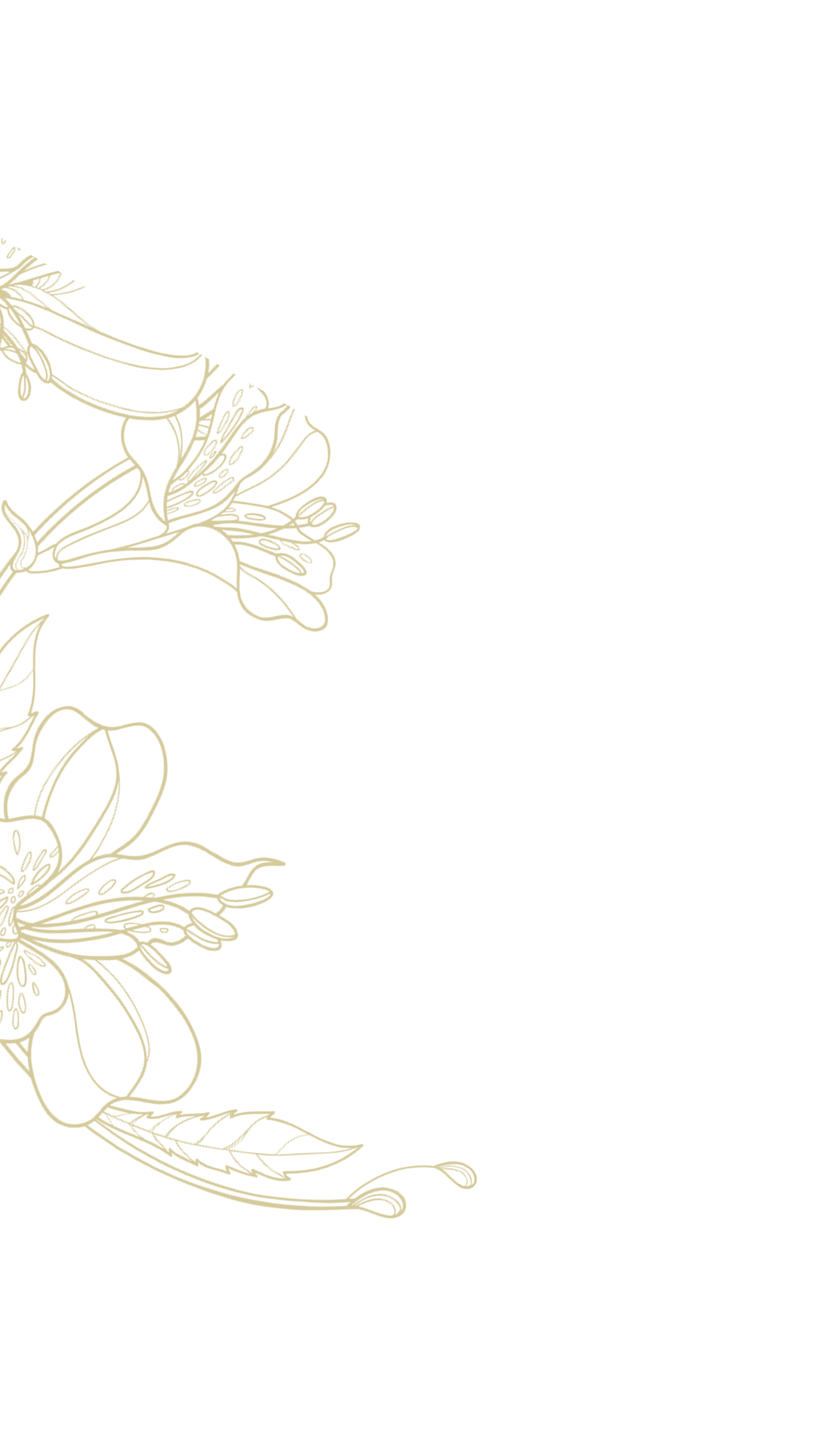
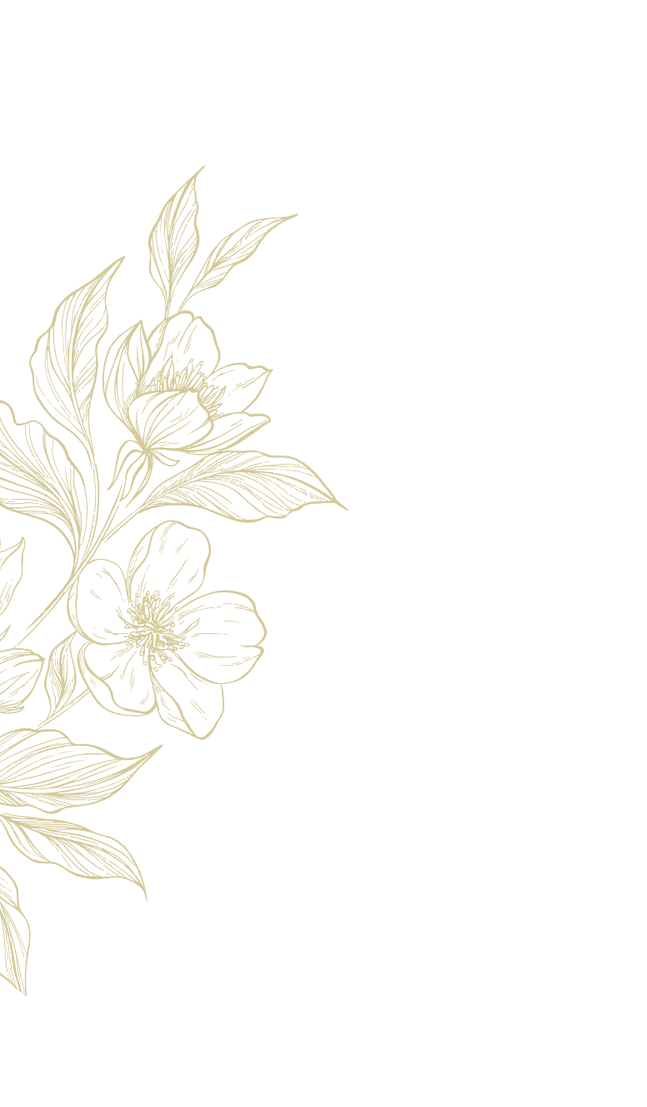
refactor: perubahan kevin dan michelle

Changed region(s): [[0.0, 0.1545, 0.5258, 0.896], [0.5258, 0.8033, 0.5876, 0.8342], [0.4021, 0.5561, 0.433, 0.587]]

diff --git a/app/components/kevin-dan-michelle/JourneyLove.tsx b/app/components/kevin-dan-michelle/JourneyLove.tsx
@@ -13,43 +13,49 @@ export default function JourneyLove({ isOpen, isMobile }: Props) {
   return (
     <>
       <div id="journey-love" className="journey-love relative z-10 w-full min-h-screen">
-        <div className="relative overflow-hidden z-10 text-center h-full font-cormorant text-[#DFD28F] pt-[138px] pb-[167px]">
-          <h2 className="font-milyuna text-2xl leading-[25px] animate" data-animate="zoom-in">A Journey in Love</h2>
-          <Image src="/images/kevin-dan-michelle/img-garis-judul-mobile.png" alt="Picture of garis judul" width={109} height={10} className="mt-1 mx-auto animate" data-animate="zoom-in" />
-          
-          <div className="w-[259px] mt-[40px] mx-auto">
-            <p className="text-[14px] leading-[20px] animate" data-animate="fade-up">
+        <div className="relative overflow-hidden z-10 h-full font-cormorant text-[#DFD28F] pt-[148px] pb-[187px]">
+          <div className="w-[259px] md:w-[638px] mx-auto">
+            <h2 className="font-milyuna text-2xl md:text-[48px] leading-[25px] md:leading-[48px] animate" data-animate="fade-up">Kevin & <br /> Michelle</h2>
+            <p className="text-[14px] md:text-[22px] leading-[20px] md:leading-[30px] text-justify mt-[37px] md:mt-[61px] animate" data-animate="fade-up">
               It all began in 2016, on the very first day of medical school. We were classmates and happened to be placed in the same practical group. Like many first meetings, it started with a simple introduction—but instead of talking about the lab session, we found ourselves laughing about the challenges that medical school would bring.
             </p>
-            <p className="text-[14px] leading-[20px] animate" data-animate="fade-up">
+            <p className="text-[14px] md:text-[22px] leading-[20px] md:leading-[30px] text-justify mt-3 md:mt-4 animate" data-animate="fade-up">
               As days turned into months, we became close friends. We studied together, spent countless hours in practical sessions, and shared unforgettable moments with the same group of friends. Somewhere along the way, friendship quietly grew into something much more. On November 30, 2017, Kevin asked Michelle to be his girlfriend, and we officially began our journey together.
             </p>
-            <p className="text-[14px] leading-[20px] animate" data-animate="fade-up">
+            <p className="text-[14px] md:text-[22px] leading-[20px] md:leading-[30px] text-justify mt-3 md:mt-4 animate" data-animate="fade-up">
               From that day on, we faced every milestone side by side. We survived endless lectures, late-night study sessions, clinical rotations, writing our theses, completing clerkships, and preparing for the national medical licensing examination. Through every challenge, we became each other's greatest source of strength.
             </p>
-            <p className="text-[14px] leading-[20px] animate" data-animate="fade-up">
+            <p className="text-[14px] md:text-[22px] leading-[20px] md:leading-[30px] text-justify mt-3 md:mt-4 animate" data-animate="fade-up">
               In 2023, after years of hard work, we achieved our dream of graduating together as doctors. To celebrate this milestone, Kevin took Michelle to Japan. On June 29, 2023, with the breathtaking view of Lake Kawaguchiko and Mount Fujistanding majestically in the background, Kevin asked the most important question of their lives—and Michelle said yes.
             </p>
-            <p className="text-[14px] leading-[20px] animate" data-animate="fade-up">
+            <p className="text-[14px] md:text-[22px] leading-[20px] md:leading-[30px] text-justify mt-3 md:mt-4 animate" data-animate="fade-up">
               A few months later, on December 3, 2023, our families came together for our Tingjing Ceremony, marking the beginning of a new chapter with the blessing of those we love most. In 2024, life took us to different cities as we completed our one-year medical internship. Although distance separated us, it only strengthened our commitment and reminded us that home was always wherever the other person was.
             </p>
-            <p className="text-[14px] leading-[20px] animate" data-animate="fade-up">
+            <p className="text-[14px] md:text-[22px] leading-[20px] md:leading-[30px] text-justify mt-3 md:mt-4 animate" data-animate="fade-up">
               When our internship ended in 2025 and we both returned to Bandung, we knew it was finally time. After growing together through every season of life—from students to doctors, from best friends to soulmates—we made the decision to begin our greatest adventure yet: A lifetime together.
             </p>
-            <p className="text-[14px] leading-[20px] animate" data-animate="fade-up">
+            <p className="text-[14px] md:text-[22px] leading-[20px] md:leading-[30px] text-justify mt-3 md:mt-4 animate" data-animate="fade-up">
               What started with a simple introduction in a medical school classroom has become a love story built on friendship, perseverance, and unwavering support. And now, surrounded by the people we love, we cannot wait to write the next chapter—together, forever.
             </p>
           </div>
 
           {/* Absoulte Image */}
-          <Image src="/images/kevin-dan-michelle/img-tanaman-kiri-atas-journey-mobile.png" alt="Picture of tanaman kiri atas" width={425} height={252} className="absolute -top-[270px] left-0 w-[255px]" />
-          <Image src="/images/kevin-dan-michelle/img-tanaman-kanan-atas-journey-mobile.png" alt="Picture of tanaman kanan atas" width={425} height={251} className="absolute -top-[270px] right-0 w-[255px]" />
-          <Image src="/images/kevin-dan-michelle/img-bunga-atas-journey-love-mobile.png" alt="Picture of bunga atas" width={98} height={98} className="absolute -top-[40px] left-1/2 -translate-x-1/2" />
-          <Image src="/images/kevin-dan-michelle/img-bunga-atas-kiri-journey-love-mobile.png" alt="Picture of bunga kiri atas" width={128} height={128} className="absolute -top-[45px] left-[57px]" />
-          <Image src="/images/kevin-dan-michelle/img-bunga-atas-kanan-journey-love-mobile.png" alt="Picture of bunga kanan atas" width={128} height={128} className="absolute -top-[45px] right-[57px]" />
-          <Image src="/images/kevin-dan-michelle/img-bintang-atas-journey-mobile.png" alt="Picture of bintang atas" width={680} height={680} className="absolute -top-[500px] left-0" />
-          <Image src="/images/kevin-dan-michelle/img-bintang-kanan-journey-mobile.png" alt="Picture of bintang atas" width={514} height={514} className="absolute top-[300px] right-0" />
+          <Image src="/images/kevin-dan-michelle/img-bintang-kanan-journey-mobile.png" alt="Picture of bintang atas" width={514} height={514} className="md:hidden absolute top-[650px] right-0" />
+          <Image src="/images/kevin-dan-michelle/img-bintang-kiri-bawah-journey-mobile.png" alt="Picture of bintang bawah kiri" width={514} height={514} className="absolute -bottom-[100px] left-0" />
+          <Image src="/images/kevin-dan-michelle/img-tanaman-kiri-bawah-journey-mobile.png" alt="Picture of bintang atas" width={232} height={232} className="md:hidden absolute w-[200px] -bottom-[130px] left-0" />
+          <Image src="/images/kevin-dan-michelle/img-tanaman-kanan-bawah-journey-mobile.png" alt="Picture of bintang atas" width={232} height={232} className="md:hidden absolute w-[200px] -bottom-[130px] right-0" />
+          <Image src="/images/kevin-dan-michelle/img-tanaman-kiri-bawah-journey-2-mobile.png" alt="Picture of bintang atas" width={252} height={252} className="md:hidden absolute -bottom-[230px] left-[5px]" />
+          <Image src="/images/kevin-dan-michelle/img-tanaman-kanan-bawah-journey-2-mobile.png" alt="Picture of bintang atas" width={252} height={252} className="md:hidden absolute -bottom-[230px] right-[5px]" />
+
+          <Image src="/images/kevin-dan-michelle/img-tanaman-kiri-bawah-journey.png" alt="Picture of bintang atas" width={844} height={690} className="hidden md:block w-[400px] absolute -bottom-[180px] left-0" />
+          <Image src="/images/kevin-dan-michelle/img-tanaman-kanan-bawah-journey.png" alt="Picture of bintang atas" width={571} height={513} className="hidden md:block w-[400px] absolute  -bottom-[130px] right-0" />
+          <Image src="/images/kevin-dan-michelle/img-tanaman-kiri-bawah-journey-2.png" alt="Picture of bintang atas" width={622} height={360} className="hidden md:block absolute -bottom-[280px] -left-[30px]" />
         </div>
+
+        {/* Absoulte Image */}
+        <Image src="/images/kevin-dan-michelle/img-tanaman-kiri-atas-journey-mobile.png" alt="Picture of tanaman atas" width={237} height={237} className="md:hidden absolute -top-[100px] left-0 w-[200px]" />
+        <Image src="/images/kevin-dan-michelle/img-tanaman-kanan-atas-journey-mobile.png" alt="Picture of tanaman atas" width={237} height={237} className="md:hidden absolute -top-[100px] right-0 w-[200px]" />
+        <Image src="/images/kevin-dan-michelle/img-tanaman-kanan-atas-journey.png" alt="Picture of tanaman atas" width={774} height={771} className="hidden md:block absolute -top-[400px] right-0" />
       </div>
     </>
   )

diff --git a/app/components/kevin-dan-michelle/Profile.tsx b/app/components/kevin-dan-michelle/Profile.tsx
@@ -13,48 +13,49 @@ export default function Profile({ isOpen, isMobile }: Props) {
   return (
     <>
       <div id="profile" className="profile relative z-10 w-full min-h-screen">
-        <div className="relative overflow-hidden z-10 text-center h-full font-cormorant text-[#DFD28F] pt-[179px] pb-[167px]">
-          <p className="text-[14px] leading-[20px] animate" data-animate="fade-up">
-            We request the honour of your presence <br /> at the wedding of <br /> our beloved son and daughter
+        <div className="relative overflow-hidden z-10 text-center h-full font-cormorant text-[#DFD28F] pt-[159px]">
+          <p className="text-[14px] md:text-[22px] leading-[20px] md:leading-[30px] animate" data-animate="fade-up">
+            We request the honour of your presence <br /> at the wedding of <br className="md:hidden" /> our beloved son and daughter
           </p>
 
-          <Image src="/images/kevin-dan-michelle/img-pengantin-pria-mobile.png" alt="Picture of Pengantin pria" width={200} height={262} className="w-[200px] mt-[60px] mx-auto animate" data-animate="zoom-in" />
-          <h2 className="font-milyuna text-[26px] leading-[30px] mt-[36px] animate" data-animate="zoom-in">dr. Kevin Axel Laurent <br /> Susanto</h2>
-          <p className="text-[14px] leading-[20px] font-light mt-5 animate" data-animate="fade-up">
+          <Image src="/images/kevin-dan-michelle/img-pengantin-pria-mobile.png" alt="Picture of Pengantin pria" width={200} height={262} className="md:hidden w-[200px] mt-[60px] mx-auto animate" data-animate="zoom-in" />
+          <Image src="/images/kevin-dan-michelle/img-pengantin-pria.png" alt="Picture of Pengantin pria" width={261} height={338} className="hidden md:block mt-[71px] mx-auto animate" data-animate="zoom-in" />
+          <h2 className="font-milyuna text-[26px] md:text-[64px] leading-[30px] md:leading-[63px] mt-[36px] md:mt-[50px] animate" data-animate="zoom-in">dr. Kevin Axel Laurent <br /> Susanto</h2>
+          <p className="text-[14px] md:text-[22px] leading-[20px] font-light mt-5 md:mt-[25px] animate" data-animate="fade-up">
             The Son of
           </p>
-          <p className="text-[14px] leading-[24px] font-light mt-3 animate" data-animate="fade-up">
-            Mr. Agus Susanto, SE and <br /> Mrs. Cin Mei
+          <p className="text-[14px] md:text-[22px] leading-[24px] md:leading-[30px] font-light mt-3 animate" data-animate="fade-up">
+            Mr. Agus Susanto, SE and <br className="md:hidden" /> Mrs. Cin Mei
           </p>
 
-          <Image src="/images/kevin-dan-michelle/img-pengantin-wanita-mobile.png" alt="Picture of Pengantin wanita" width={200} height={262} className="w-[200px] mt-[55px] mx-auto animate" data-animate="zoom-in" />
-          <h2 className="font-milyuna text-[26px] leading-[30px] mt-[36px] animate" data-animate="zoom-in">dr. Michelle Cannissa <br /> Hendrawan</h2>
-          <p className="text-[14px] leading-[20px] font-light mt-5 animate" data-animate="fade-up">
+          <Image src="/images/kevin-dan-michelle/img-pengantin-wanita-mobile.png" alt="Picture of Pengantin wanita" width={200} height={262} className="md:hidden w-[200px] mt-[55px] mx-auto animate" data-animate="zoom-in" />
+          <Image src="/images/kevin-dan-michelle/img-pengantin-wanita.png" alt="Picture of Pengantin wanita" width={261} height={338} className="hidden md:block mt-[98px] mx-auto animate" data-animate="zoom-in" />
+          <h2 className="font-milyuna text-[26px] md:text-[64px] leading-[30px] md:leading-[63px] mt-[36px] md:mt-[50px] animate" data-animate="zoom-in">dr. Michelle Cannissa <br /> Hendrawan</h2>
+          <p className="text-[14px] md:text-[22px] leading-[20px] font-light mt-5 md:mt-[25px] animate" data-animate="fade-up">
             The Daughter of
           </p>
-          <p className="text-[14px] leading-[24px] font-light mt-3 animate" data-animate="fade-up">
-            Mr. Iwan Hendrawan and <br /> Mrs. Rosmiati
+          <p className="text-[14px] md:text-[22px] leading-[24px] md:leading-[30px] font-light mt-3 animate" data-animate="fade-up">
+            Mr. Iwan Hendrawan and <br className="md:hidden" /> Mrs. Rosmiati
           </p>
 
-          <p className="text-[14px] leading-[20px] mt-[52px] animate" data-animate="fade-up">
+          <p className="text-[14px] md:text-[22px] leading-[20px] md:leading-[30px] mt-[52px] md:mt-[65px] animate" data-animate="fade-up">
             We would be honoured <br /> by your presence and blessing.
           </p>
-
-          {/* Absoulte Image */}
-          <Image src="/images/kevin-dan-michelle/img-tanaman-kiri-bawah-profile-mobile.png" alt="Picture of tanaman kiri bawah" width={243} height={243} className="absolute -bottom-[100px] left-0 w-[217px]" />
-          <Image src="/images/kevin-dan-michelle/img-tanaman-kanan-bawah-profile-mobile.png" alt="Picture of tanaman kanan bawah" width={243} height={243} className="absolute -bottom-[80px] right-0 w-[157px]" />
-          <Image src="/images/kevin-dan-michelle/img-tanaman-kiri-bawah-profile-2-mobile.png" alt="Picture of tanaman kiri bawah" width={88} height={88} className="absolute -bottom-[40px] left-[50px]" />
-          <Image src="/images/kevin-dan-michelle/img-tanaman-kanan-bawah-profile-2-mobile.png" alt="Picture of tanaman kanan bawah" width={121} height={121} className="absolute -bottom-[55px] right-[45px]" />
-          <Image src="/images/kevin-dan-michelle/img-bintang-bawah-profile-mobile.png" alt="Picture of bintang bawah" width={409} height={409} className="absolute -bottom-[250px] left-0" />
         </div>
 
         {/* Absolute Image */}
-        <Image src="/images/kevin-dan-michelle/img-bintang-atas-profile-mobile.png" alt="Picture of bintang atas" width={359} height={359} className="absolute -top-[200px] left-0" />
-        <Image src="/images/kevin-dan-michelle/img-tanaman-kiri-atas-profile-mobile.png" alt="Picture of tanaman atas kiri" width={318} height={390} className="absolute -top-[170px] left-0 w-[179px]" />
-        <Image src="/images/kevin-dan-michelle/img-tanaman-kanan-atas-profile-mobile.png" alt="Picture of tanaman atas kanan" width={318} height={390} className="absolute -top-[170px] right-0 w-[179px]" />
+        <Image src="/images/kevin-dan-michelle/img-bintang-atas-profile-mobile.png" alt="Picture of bintang atas" width={359} height={359} className="md:hidden absolute -top-[200px] left-0 pointer-events-none" />
+        <Image src="/images/kevin-dan-michelle/img-tanaman-kiri-atas-profile-mobile.png" alt="Picture of tanaman atas kiri" width={318} height={390} className="md:hidden absolute -top-[170px] left-0 w-[179px] pointer-events-none" />
+        <Image src="/images/kevin-dan-michelle/img-tanaman-kanan-atas-profile-mobile.png" alt="Picture of tanaman atas kanan" width={318} height={390} className="md:hidden absolute -top-[170px] right-0 w-[179px] pointer-events-none" />
+        <Image src="/images/kevin-dan-michelle/img-tanaman-kiri-atas-profile.png" alt="Picture of tanaman atas kiri" width={932} height={1142} className="hidden md:block absolute -top-[800px] left-0 pointer-events-none w-[772px]" />
+        <Image src="/images/kevin-dan-michelle/img-tanaman-kanan-atas-profile.png" alt="Picture of tanaman atas kanan" width={932} height={1142} className="hidden md:block absolute -top-[800px] right-0 pointer-events-none w-[772px]" />
+
         <Image src="/images/kevin-dan-michelle/img-bintang-atas-kanan-profile-mobile.png" alt="Picture of bintang atas kanan" width={359} height={359} className="absolute -top-[100px] right-0 w-[229px]" />
-        <Image src="/images/kevin-dan-michelle/img-bintang-kiri-samping-pengantin-pria-mobile.png" alt="Picture of bintang samping pengantin pria" width={481} height={481} className="absolute top-[100px] left-0 w-[281px]" />
-        <Image src="/images/kevin-dan-michelle/img-bintang-kanan-samping-pengantin-wanita-mobile.png" alt="Picture of bintang samping pengantin wanita" width={481} height={481} className="absolute top-[550px] right-0 w-[261px]" />
+        <Image src="/images/kevin-dan-michelle/img-bintang-kiri-samping-pengantin-pria-mobile.png" alt="Picture of bintang samping pengantin pria" width={481} height={481} className="md:hidden absolute top-[100px] left-0 w-[281px] " />
+        <Image src="/images/kevin-dan-michelle/img-bintang-kanan-samping-pengantin-wanita-mobile.png" alt="Picture of bintang samping pengantin wanita" width={481} height={481} className="md:hidden absolute top-[550px] right-0 w-[261px]" />
+        <Image src="/images/kevin-dan-michelle/img-bintang-kiri-bawah-profile-mobile.png" alt="Picture of bintang bawah profile" width={583} height={680} className="md:hidden absolute -bottom-[350px] left-0" />
+
+        <Image src="/images/kevin-dan-michelle/img-bintang-atas-kanan-profile.png" alt="Picture of bintang atas kanan" width={1343} height={1343} className="hidden md:block w-[900px] absolute -top-[75px] right-0" />
       </div>
     </>
   )

diff --git a/app/components/kevin-dan-michelle/Hero.tsx b/app/components/kevin-dan-michelle/Hero.tsx
@@ -20,35 +20,43 @@ export default function Hero({ isOpen, setIsOpen, params, isMobile }: HeroProps)
             <div className="absolute inset-0 z-[1] bg-[#00000040] backdrop-blur-[11.1px]" />
             <div className="relative z-20 flex items-center justify-center h-full">
               <div className="w-[290px] md:w-[416px] min-h-min rounded-[15px] md:rounded-[20px] shadow-[0px_8px_11.6px_0px_#0000008A] zoom-in">
-                <div className="w-full h-[180px] md:h-[220px] rounded-tl-[15px] md:rounded-tl-[20px] rounded-tr-[15px] md:rounded-tr-[20px] bg-center bg-cover bg-no-repeat bg-[url('/images/kevin-dan-michelle/img-hero-mobile.png')]"></div>
-                <div className="relative w-full pt-[25px] md:pt-[26px] pb-[40px] rounded-bl-[15px] md:rounded-bl-[20px] rounded-br-[15px] md:rounded-br-[20px] font-century text-[#3C475E] text-center bg-[#F6F6F4] md:bg-white">
-                  <h6 className="text-xs md:text-[14px] font-normal leading-none tracking-[15%] md:tracking-normal uppercase">the wedding of</h6>
-                  <h2 className="font-constantia text-[28px] md:text-[36px] leading-none font-normal mt-2">Steven & Bella</h2>
-                  <h6 className="text-[10px] md:text-[14px] font-medium leading-[25px] md:leading-[31px] mt-3">Dear,</h6>
-                  <h6 className="text-xs md:text-lg font-medium leading-[25px] md:leading-[31px] capitalize">{params ?? '.......'}</h6>
-                  <p className="text-[8px] md:text-xs font-medium leading-[13px] md:leading-[16px] mt-[9px] md:mt-[20px]">We sincerely apologize</p>
-                  <p className="text-[8px] md:text-xs font-medium leading-[13px] md:leading-[16px]">for any misspelling of names or titles.</p>
-                  <button onClick={() => setIsOpen(true)} className="mx-auto mt-4 md:mt-[23px] w-[184px] md:w-[288px] h-[33px] md:h-[40px] bg-[#3C475E] rounded-[41px] md:rounded-[35px] flex items-center justify-center">
+                <div className="w-full h-[180px] md:h-[220px] rounded-tl-[15px] md:rounded-tl-[20px] rounded-tr-[15px] md:rounded-tr-[20px] bg-center bg-cover bg-no-repeat bg-[url('/images/kevin-dan-michelle/img-popup-hero-mobile.png')]"></div>
+                <div className="relative w-full pt-[47px] md:pt-[62px] pb-[54px] rounded-bl-[15px] md:rounded-bl-[20px] rounded-br-[15px] md:rounded-br-[20px] font-cormorant text-[#DFD28F] text-center bg-[#081930]">
+                  <h6 className="text-xs md:text-lg font-normal leading-none md:uppercase">the wedding of</h6>
+                  <h2 className="font-milyuna text-[26px] md:text-[40px] leading-none font-normal mt-2">Kevin & Michelle</h2>
+                  <h6 className="text-xs md:text-base font-medium leading-[25px] md:leading-[31px] mt-3">Dear Mr. /Mrs. / Ms.</h6>
+                  <h6 className="text-[14px] md:text-xl font-medium leading-[25px] md:leading-[31px] capitalize">{params ?? '.......'}</h6>
+                  <p className="text-[8px] md:text-[14px] font-medium leading-[13px] md:leading-[16px] mt-5">We sincerely apologize</p>
+                  <p className="text-[8px] md:text-[14px] font-medium leading-[13px] md:leading-[16px]">for any misspelling of names or titles.</p>
+                  <button onClick={() => setIsOpen(true)} className="mx-auto mt-4 md:mt-[23px] w-[184px] md:w-[220px] h-[33px] md:h-[40px] bg-[#CDA96A] rounded-[6px] md:rounded-[10px] flex items-center justify-center">
                     <span className="text-xs md:text-lg leading-none font-medium text-[#F6F6F4] uppercase">view invitation</span>
                   </button>
+
+                  {/* Image Absolute */}
+                  <Image src="/images/kevin-dan-michelle/img-tanaman-kiri-atas-popup-hero-mobile.png" alt="Picture of Tanaman Kiri Atas" width={112} height={127} className="absolute top-0 left-0 w-[83px] md:w-[112px] pointer-events-none" />
+                  <Image src="/images/kevin-dan-michelle/img-tanaman-bawah-kanan-popup-hero-mobile.png" alt="Picture of Tanaman Kanan Bawah" width={112} height={127} className="absolute bottom-0 right-0 w-[83px] md:w-[112px] pointer-events-none" />
+
+                  <Image src="/images/kevin-dan-michelle/img-bintang-atas-popup-hero-mobile.png" alt="Picture of Bintang Kanan Atas" width={268} height={213} className="absolute top-0 right-0 w-[218px] md:w-[268px] pointer-events-none" />
+                  <Image src="/images/kevin-dan-michelle/img-bintang-bawah-popup-hero-mobile.png" alt="Picture of Bintang Kiri Bawah" width={268} height={213} className="absolute bottom-0 left-0 w-[218px] md:w-[268px] pointer-events-none" />
                 </div>
               </div>
             </div>
           </div>
         )}
 
-        <div className="relative z-10 text-center font-cormorant text-[#DFD28F] pt-[274px] h-full">
-          <h4 className="text-[14px] tracking-wider uppercase animate" data-animate="zoom-in">the wedding</h4>
-          <h2 className="font-milyuna text-[42px] mt-1 animate" data-animate="zoom-in">Kevin</h2>
-          <h2 className="font-milyuna text-2xl mt-2 animate" data-animate="zoom-in">&</h2>
-          <h2 className="font-milyuna text-[42px] mt-2 animate" data-animate="zoom-in">Michelle</h2>
-          <h4 className="text-base tracking-[0.09em] mt-2 animate" data-animate="zoom-in">12  .  09  .  26</h4>
-          <p className="text-[14px] leading-[16px] font-light mt-[142px] animate" data-animate="zoom-in">“So they are no longer two, but one flesh. <br /> Therefore what God has joined together, let no <br /> one separate.”</p>
-          <p className="text-[14px] leading-[18px] font-light mt-4 animate" data-animate="zoom-in">Matthew 19:6</p>
+        <div className="relative z-10 text-center font-cormorant text-[#DFD28F] pt-[274px] md:pt-[297px] h-full">
+          <h4 className={`text-[14px] md:text-[22px] tracking-wider md:tracking-[0.05em] uppercase ${isOpen ? 'zoom-in' : ''}`}>the wedding</h4>
+          <h2 className={`font-milyuna text-[42px] md:text-[96px] mt-1 ${isOpen ? 'zoom-in' : ''}`}>Kevin</h2>
+          <h2 className={`font-milyuna text-2xl md:text-[48px] mt-2 ${isOpen ? 'zoom-in' : ''}`}>&</h2>
+          <h2 className={`font-milyuna text-[42px] md:text-[96px] mt-2 ${isOpen ? 'zoom-in' : ''}`}>Michelle</h2>
+          <h4 className={`text-base md:text-[26px] tracking-[0.09em] mt-2 md:mt-0 ${isOpen ? 'zoom-in' : ''}`}>12  .  09  .  26</h4>
+          <p className={`text-[14px] md:text-[22px] leading-[16px] md:leading-[25px] font-light mt-[142px] md:mt-[106px] ${isOpen ? 'zoom-in' : ''}`}>“So they are no longer two, but one flesh. <br /> Therefore what God has joined together, let no <br /> one separate.”</p>
+          <p className={`text-[14px]  md:text-[22px] leading-[18px] md:leading-[30px] font-light mt-4 ${isOpen ? 'zoom-in' : ''}`}>Matthew 19:6</p>
         </div>
 
-        <Image src="/images/kevin-dan-michelle/img-bintang-kiri-bawah-hero-mobile.png" alt="Picture of background lapisan atas" width={359} height={359} className="absolute bottom-0 left-0 w-[259px]" />
-        <Image src="/images/kevin-dan-michelle/img-bintang-hero-mobile.png" alt="Picture of background lapisan atas" width={409} height={409} className="absolute top-0 left-0 w-[409px]" />
+        <Image src="/images/kevin-dan-michelle/img-bintang-kiri-bawah-hero-mobile.png" alt="Picture of background lapisan atas" width={359} height={359} className="md:hidden absolute bottom-0 left-0 w-[259px] pointer-events-none" />
+        <Image src="/images/kevin-dan-michelle/img-bintang-hero-mobile.png" alt="Picture of background lapisan atas" width={409} height={409} className="md:hidden absolute top-0 left-0 w-[409px] pointer-events-none" />
+        <Image src="/images/kevin-dan-michelle/img-bintang-hero.png" alt="Picture of background lapisan atas" width={1343} height={1343} className="hidden md:block absolute -top-[100px] right-0 pointer-events-none" />
       </section>
     </>
   )

diff --git a/app/components/kevin-dan-michelle/Header.tsx b/app/components/kevin-dan-michelle/Header.tsx
@@ -1,0 +1,126 @@
+'use client'
+
+import { useState, useEffect } from 'react'
+import Link from 'next/link'
+import Image from 'next/image'
+import { useScrollSmooth } from '@/app/hooks/useScrollSmooth'
+
+export default function Header({ isOpen }: {isOpen: boolean}) {
+  const [show, setShow] = useState(true)
+  const [lastScroll, setLastScroll] = useState(0)
+  const [open, setOpen] = useState(false)
+  const [isClosing, setIsClosing] = useState(false)
+  const { handleScrollDown } = useScrollSmooth()
+
+  useEffect(() => {
+    const handleScroll = () => {
+      const current = window.scrollY
+
+      if (current <= 10) {
+        setShow(true)
+      } else if (current > lastScroll) {
+        setShow(false)
+      } else {
+        setShow(true)
+      }
+
+      setLastScroll(current)
+    }
+
+    window.addEventListener("scroll", handleScroll)
+    return () => window.removeEventListener("scroll", handleScroll)
+  }, [lastScroll])
+
+  const handleClose = () => {
+    setIsClosing(true)
+    setTimeout(() => {
+      setOpen(false)
+      setIsClosing(false)
+    }, 250)
+  }
+
+  return (
+    <header
+      className={`fixed top-0 left-0 w-full z-30 transition-all duration-500
+        md:translate-x-0
+        ${isOpen ? 'opacity-100 translate-y-0' : 'opacity-0 -translate-y-10 pointer-events-none'}`
+      }>
+      <div className="w-[92vw] max-w-6xl">
+        {!open && (
+          <div className="flex items-center justify-start text-white">
+            <button onClick={() => setOpen(!open)} className="relative top-[21px] left-[22px] md:top-[50px] md:left-[50px]">
+              <Image src="/images/josiah-dan-stevie/icon-menu-toggle.png" alt="Picture of icon menu" width={25} height={17} className="md:w-[45px] md:h-[30px]" />
+            </button>
+          </div>
+        )}
+
+        {(open || isClosing) && (
+          <>
+            <div onClick={handleClose} className="w-screen h-screen fixed inset-0 z-40" />
+            <div className={`relative z-50 top-[12px] md:top-[24px] left-[22px] md:left-[41px] w-[255px] md:w-[424px] min-h-min bg-[#7B7B7B]/70 flex gap-2 ps-[6px] ${isClosing ? 'animate-menu-out' : 'animate-menu-in'}`} style={{ transformOrigin: 'top left' }}>
+              <div>
+                <button className={`font-ibm text-2xl md:text-[34px] font-light leading-none text-white uppercase opacity-0 mt-[6px] md:mt-[18px] md:ml-[13px] ${isClosing ? 'animate-close-menu-out' : 'animate-close-menu-in'}`} onClick={() => handleClose()}>x</button>
+              </div>
+              <div className={`flex flex-col font-noto text-white mt-[36px] md:mt-[55px] mb-[32px] ${isClosing ? 'animate-close-menu-out' : ''}`}>
+                <div className="overflow-hidden min-h-min">
+                  <Link href="#hero" className="flex items-center gap-1 relative left-[-18px] md:left-[-25px] hover:left-0 transition-all duration-300 uppercase opacity-0 animate-item-menu-in" onClick={handleScrollDown}>
+                    <img src="/images/josiah-dan-stevie/arrow-right.png" className="w-[15px] md:w-[20px]" alt="" />
+                    <span className="text-xs md:text-lg leading-none font-medium">home</span>
+                  </Link>
+                </div>
+                <div className="overflow-hidden min-h-min mt-2.5">
+                  <Link href="#profile" className="flex items-center gap-1 relative left-[-18px] md:left-[-25px] hover:left-0 transition-all duration-300 uppercase opacity-0 animate-item-menu-in" onClick={handleScrollDown} style={{ animationDelay: '0.05s' }}>
+                    <img src="/images/josiah-dan-stevie/arrow-right.png" className="w-[15px]  md:w-[20px]" alt="" />
+                    <span className="text-xs md:text-lg leading-none font-medium">profile</span>
+                  </Link>
+                </div>
+                <div className="overflow-hidden min-h-min mt-2.5">
+                  <Link href="#counting-down" className="flex items-center gap-1 relative left-[-18px] md:left-[-25px] hover:left-0 transition-all duration-300 uppercase opacity-0 animate-item-menu-in" onClick={handleScrollDown} style={{ animationDelay: '0.25s' }}>
+                    <img src="/images/josiah-dan-stevie/arrow-right.png" className="w-[15px]  md:w-[20px]" alt="" />
+                    <span className="text-xs md:text-lg leading-none font-medium">date</span>
+                  </Link>
+                </div>
+                <div className="overflow-hidden min-h-min mt-2.5">
+                  <Link href="#location" className="flex items-center gap-1 relative left-[-18px] md:left-[-25px] hover:left-0 transition-all duration-300 uppercase opacity-0 animate-item-menu-in" onClick={handleScrollDown} style={{ animationDelay: '0.45s' }}>
+                    <img src="/images/josiah-dan-stevie/arrow-right.png" className="w-[15px] md:w-[20px]" alt="" />
+                    <span className="text-xs md:text-lg leading-none font-medium">location</span>
+                  </Link>
+                </div>
+                <div className="overflow-hidden min-h-min mt-2.5">
+                  <Link href="#gallery" className="flex items-center gap-1 relative left-[-18px] md:left-[-25px] hover:left-0 transition-all duration-300 uppercase opacity-0 animate-item-menu-in" onClick={handleScrollDown} style={{ animationDelay: '0.55s' }}>
+                    <img src="/images/josiah-dan-stevie/arrow-right.png" className="w-[15px] md:w-[20px]" alt="" />
+                    <span className="text-xs md:text-lg leading-none font-medium">gallery</span>
+                  </Link>
+                </div>
+                <div className="overflow-hidden min-h-min mt-2.5">
+                  <Link href="#reservation" className="flex items-center gap-1 relative left-[-18px] md:left-[-25px] hover:left-0 transition-all duration-300 uppercase opacity-0 animate-item-menu-in" onClick={handleScrollDown} style={{ animationDelay: '0.45s' }}>
+                    <img src="/images/josiah-dan-stevie/arrow-right.png" className="w-[15px] md:w-[20px]" alt="" />
+                    <span className="text-xs md:text-lg leading-none font-medium">rsvp</span>
+                  </Link>
+                </div>
+                <div className="overflow-hidden min-h-min mt-2.5">
+                  <Link href="#wedding-gift" className="flex items-center gap-1 relative left-[-18px] md:left-[-25px] hover:left-0 transition-all duration-300 uppercase opacity-0 animate-item-menu-in" onClick={handleScrollDown} style={{ animationDelay: '0.45s' }}>
+                    <img src="/images/josiah-dan-stevie/arrow-right.png" className="w-[15px] md:w-[20px]" alt="" />
+                    <span className="text-xs md:text-lg leading-none font-medium">wedding gift</span>
+                  </Link>
+                </div>
+                <div className="overflow-hidden min-h-min mt-2.5">
+                  <Link href="#wishes" className="flex items-center gap-1 relative left-[-18px] md:left-[-25px] hover:left-0 transition-all duration-300 uppercase opacity-0 animate-item-menu-in" onClick={handleScrollDown} style={{ animationDelay: '0.45s' }}>
+                    <img src="/images/josiah-dan-stevie/arrow-right.png" className="w-[15px] md:w-[20px]" alt="" />
+                    <span className="text-xs md:text-lg leading-none font-medium">wishes</span>
+                  </Link>
+                </div>
+                <div className="overflow-hidden min-h-min mt-[34px]">
+                  <p className="text-[8px] md:text-[14px] font-light leading-[106%] opacity-0 animate-item-in" style={{ animationDelay: '0.65s' }}>
+                    Select a section above to continue
+                  </p>
+                </div>
+              </div>
+            </div>
+          </>
+        )}
+
+      </div>
+    </header>
+  )
+}

diff --git a/app/components/kevin-dan-michelle/WrapperTop.tsx b/app/components/kevin-dan-michelle/WrapperTop.tsx
@@ -19,12 +19,16 @@ export default function WrapperTop({ isOpen, setIsOpen, params, isMobile }: Wrap
     <div className="relative w-full">
       <Hero isOpen={isOpen} setIsOpen={setIsOpen} params={params} isMobile={isMobile} />
       <Profile isOpen={isOpen} isMobile={isMobile} />
-      <CountingDown isOpen={isOpen} isMobile={isMobile} />
       <JourneyLove isOpen={isOpen} isMobile={isMobile} />
+      <CountingDown isOpen={isOpen} isMobile={isMobile} />
 
-      <Image src="/images/kevin-dan-michelle/img-bunga-kiri-atas-hero-mobile.png" alt="Picture of Bunga bagian kiri atas" width={593} height={394} className="absolute top-0 left-0 w-[593px]" />
-      <Image src="/images/kevin-dan-michelle/bg-lapisan-tengah-full-mobile.png" alt="Picture of background lapisan tengah" width={345} height={514} className="absolute top-[80px] left-1/2 -translate-x-1/2 w-[345px]" />
-      <Image src="/images/kevin-dan-michelle/bg-lapisan-atas-full-mobile.png" alt="Picture of background lapisan atas" width={308} height={500} className="absolute top-[100px] left-1/2 -translate-x-1/2 w-[308px]" />
+      <Image src="/images/kevin-dan-michelle/img-bunga-kiri-atas-hero-mobile.png" alt="Picture of Bunga bagian kiri atas" width={593} height={394} className="md:hidden absolute top-0 left-0 w-[593px]" />
+      <Image src="/images/kevin-dan-michelle/img-bunga-kiri-atas-hero.png" alt="Picture of Bunga bagian kiri atas" width={1000} height={1000} className="hidden md:block absolute top-0 left-0" />
+
+      <Image src="/images/kevin-dan-michelle/bg-lapisan-tengah-full-mobile.png" alt="Picture of background lapisan tengah" width={345} height={514} className="md:hidden absolute top-[80px] left-1/2 -translate-x-1/2 w-[345px]" />
+      <Image src="/images/kevin-dan-michelle/bg-lapisan-atas-full-mobile.png" alt="Picture of background lapisan atas" width={308} height={500} className="md:hidden absolute top-[100px] left-1/2 -translate-x-1/2 w-[308px]" />
+      <Image src="/images/kevin-dan-michelle/bg-lapisan-tengah-full.png" alt="Picture of background lapisan tengah" width={1230} height={4304} className="hidden md:block absolute top-[106px] left-1/2 -translate-x-1/2" />
+      <Image src="/images/kevin-dan-michelle/bg-lapisan-atas-full.png" alt="Picture of background lapisan atas" width={1108} height={4205} className="hidden md:block absolute top-[167px] left-1/2 -translate-x-1/2" />
     </div>
   )
 }

diff --git a/app/components/kevin-dan-michelle/WrapperBottom.tsx b/app/components/kevin-dan-michelle/WrapperBottom.tsx
@@ -28,8 +28,8 @@ export default function WrapperBootom({ isOpen, setIsOpen, params, isMobile }: W
 
       <Image src="/images/kevin-dan-michelle/img-tanaman-kanan-atas-location.png" alt="Picture of Bunga kanan atas" width={382} height={382} className="absolute -top-[215px] right-0 w-[302px]" />
       <Image src="/images/kevin-dan-michelle/img-tanaman-kanan-bawah-footer-mobile.png" alt="Picture of tanaman kanan bawah" width={501} height={448} className="absolute z-0 bottom-0 right-0 w-[301px]" />
-      <Image src="/images/kevin-dan-michelle/bg-lapisan-tengah-full-bottom-mobile.png" alt="Picture of background lapisan tengah" width={346} height={3827} className="absolute top-[80px] left-1/2 -translate-x-1/2 w-[345px]" />
-      <Image src="/images/kevin-dan-michelle/bg-lapisan-atas-full-bottom-mobile.png" alt="Picture of background lapisan atas" width={308} height={3715} className="absolute top-[100px] left-1/2 -translate-x-1/2 w-[308px]" />
+      <Image src="/images/kevin-dan-michelle/bg-lapisan-tengah-full-bottom-mobile.png" alt="Picture of background lapisan tengah" width={346} height={3827} className="absolute -top-[320px] md:top-0 left-1/2 -translate-x-1/2 w-[345px]" />
+      <Image src="/images/kevin-dan-michelle/bg-lapisan-atas-full-bottom-mobile.png" alt="Picture of background lapisan atas" width={308} height={3715} className="absolute -top-[300px] md:top-0 left-1/2 -translate-x-1/2 w-[308px]" />
     </div>
   )
 }

diff --git a/app/components/kevin-dan-michelle/Wrapper.tsx b/app/components/kevin-dan-michelle/Wrapper.tsx
@@ -3,9 +3,10 @@
 import { useState, useEffect } from 'react'
 import WrapperTop from './WrapperTop'
 import WrapperBottom from './WrapperBottom'
+import Header from './Header'
 
 export default function Wrapper({ params }: { params: string }) {
-  const [isOpen, setIsOpen] = useState(true) // default false
+  const [isOpen, setIsOpen] = useState(false) // default false
   const [isMobile, setIsMobile] = useState(false)
 
   useEffect(() => {
@@ -60,7 +61,8 @@ export default function Wrapper({ params }: { params: string }) {
 
   return (
     <>
-      <div className="bg-top bg-cover bg-no-repeat bg-[url('/images/kevin-dan-michelle/bg-full-mobile.png')]">
+      <div className="bg-top bg-cover bg-no-repeat bg-[url('/images/kevin-dan-michelle/bg-full-mobile.png')] md:bg-[url('/images/kevin-dan-michelle/bg-full.png')]">
+        <Header isOpen={isOpen} />
         <WrapperTop isOpen={isOpen} setIsOpen={setIsOpen} params={params} isMobile={isMobile} />
         <WrapperBottom isOpen={isOpen} setIsOpen={setIsOpen} params={params} isMobile={isMobile} />
       </div>
